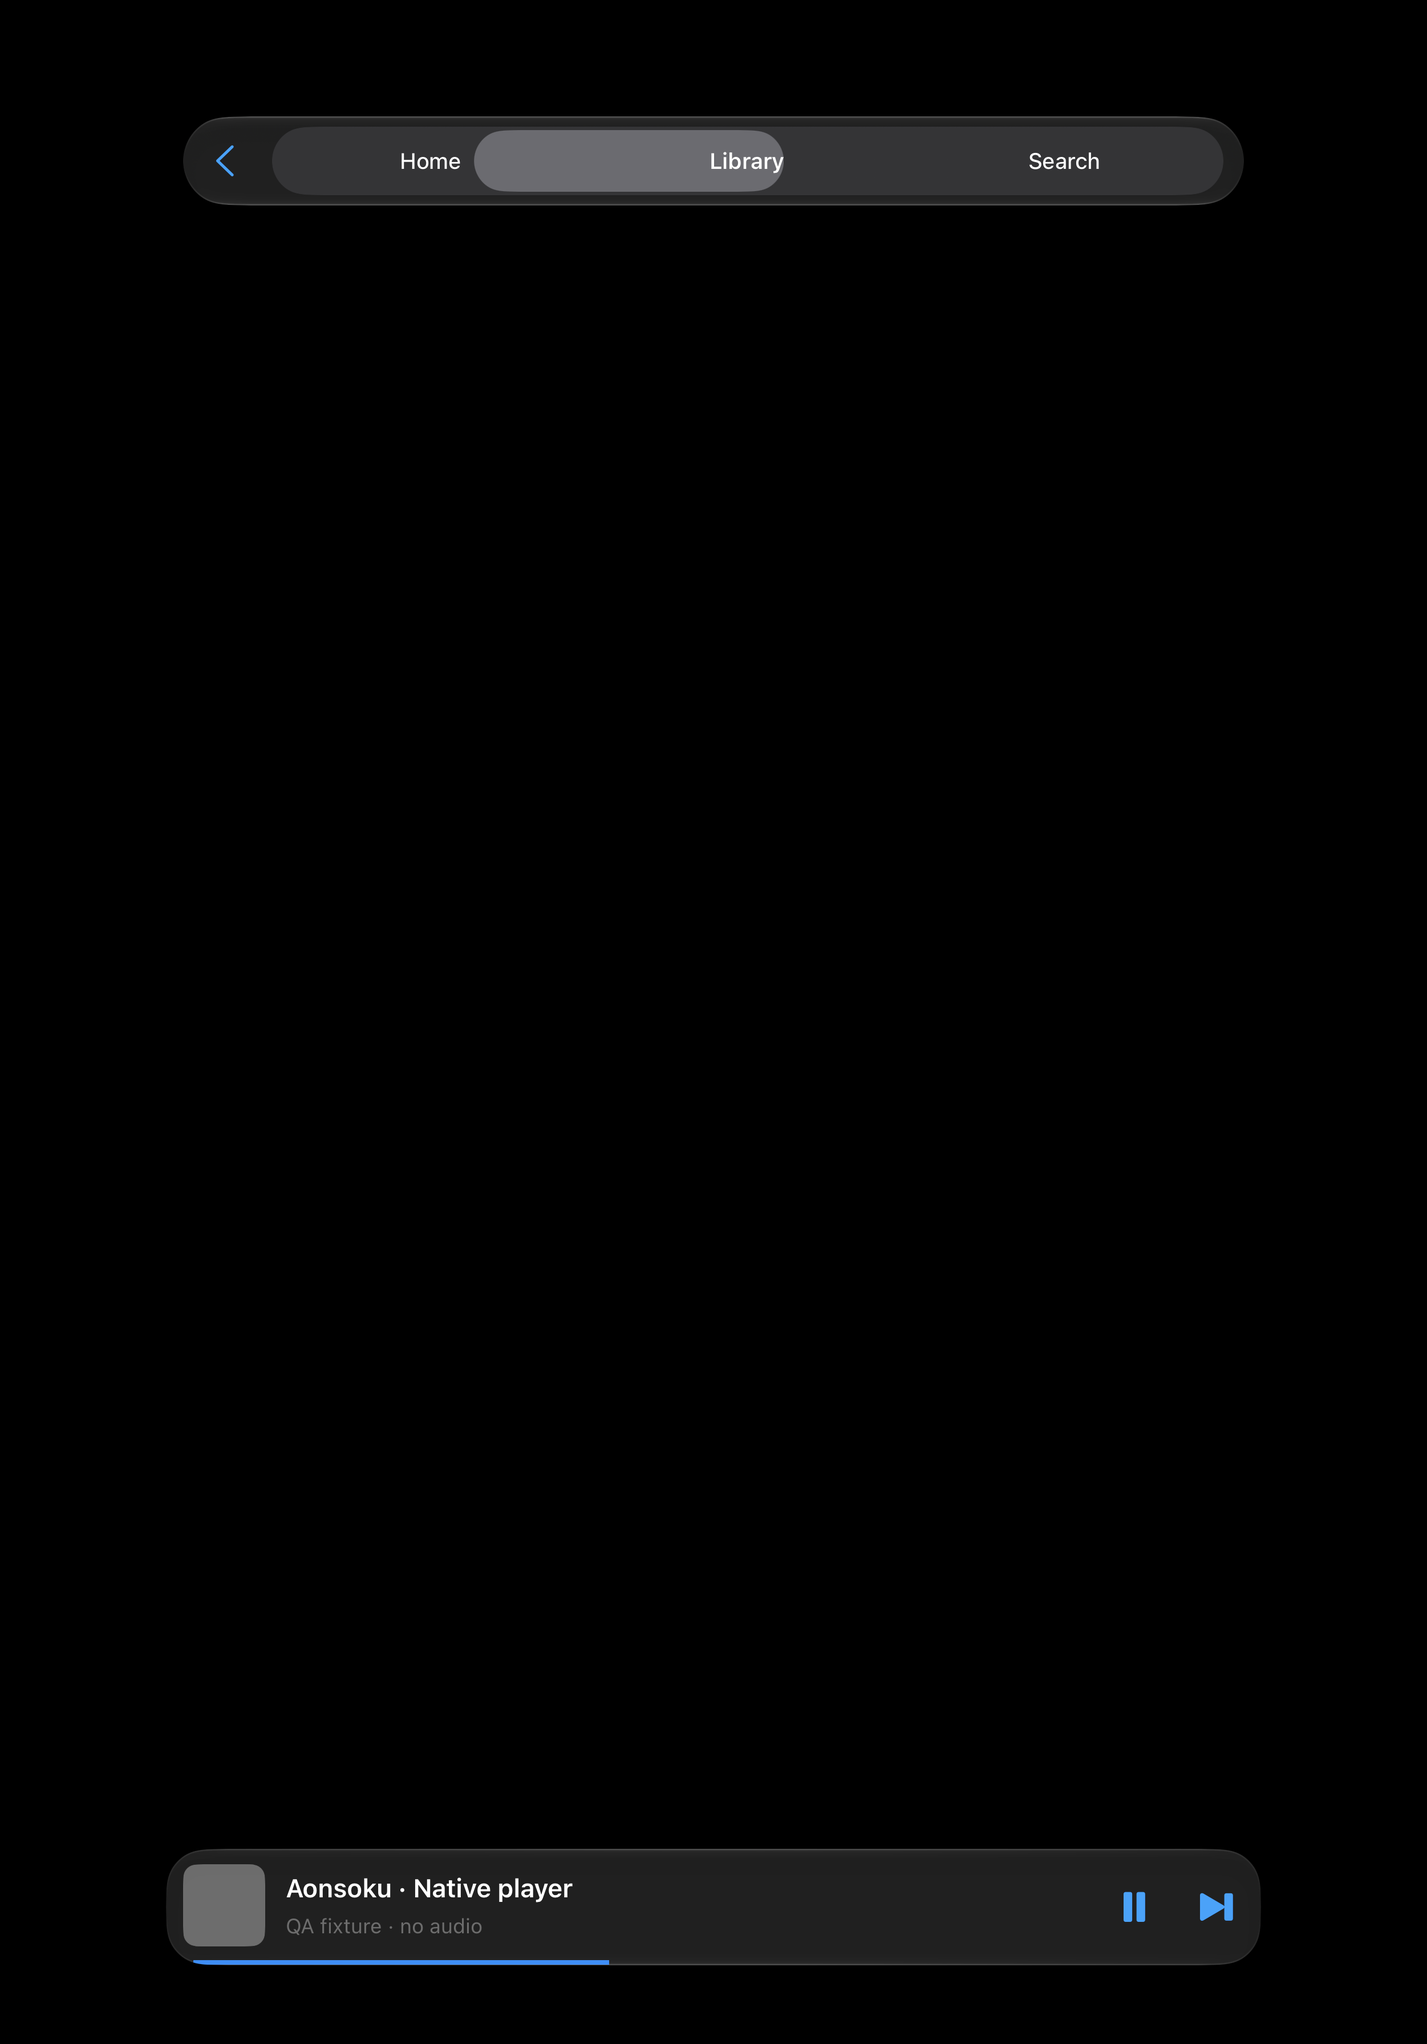
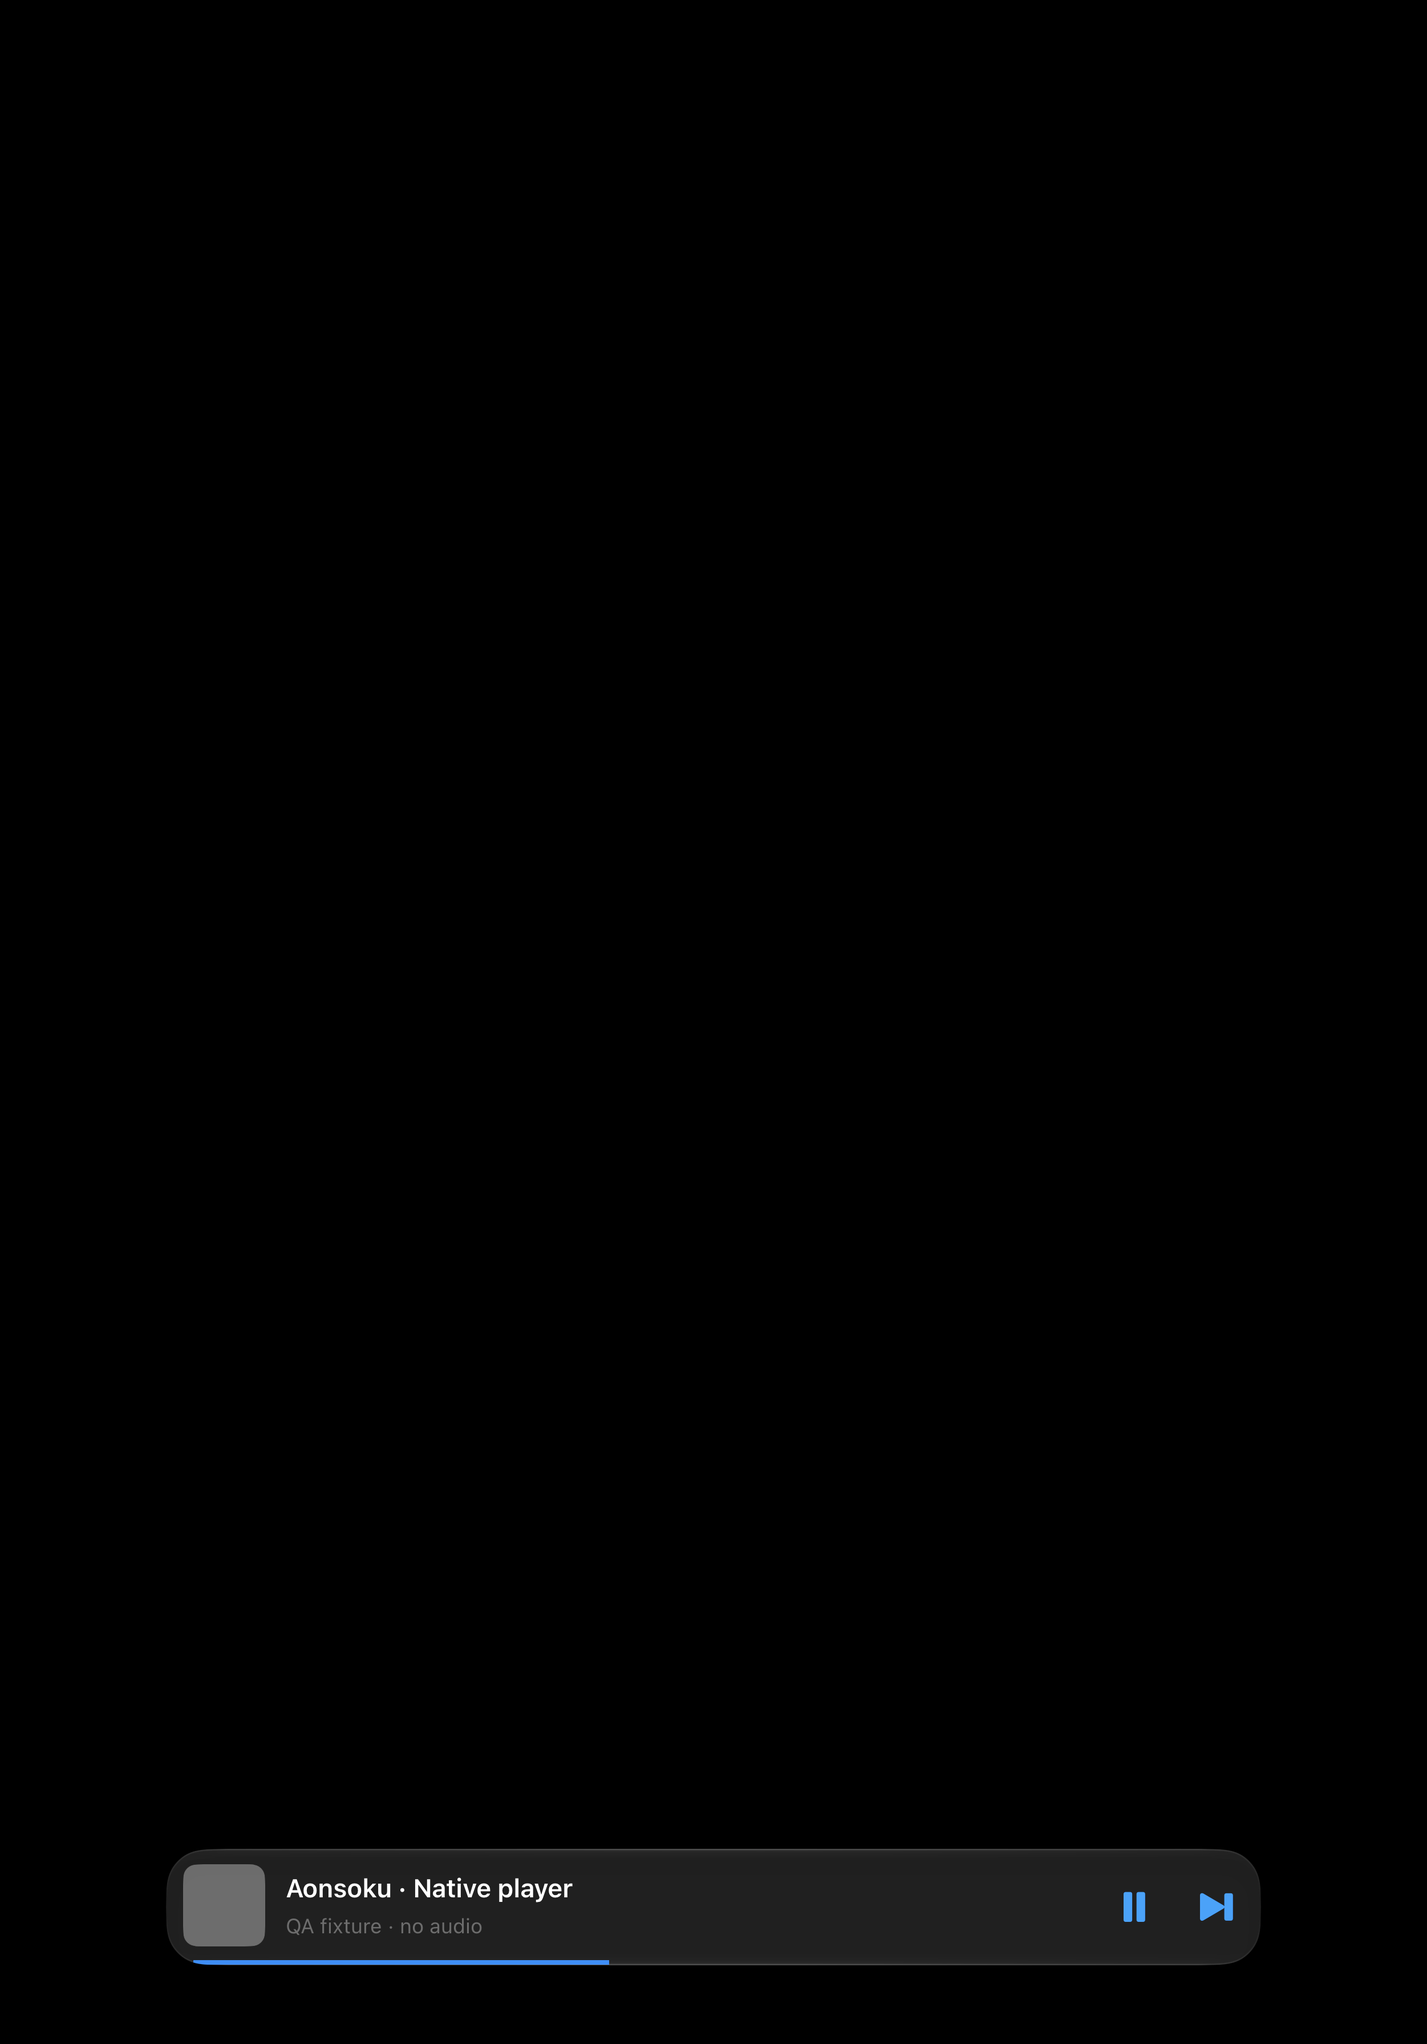
fix(ios): restore wide-window navigation with native mini player

Changed region(s): [[0.1247, 0.031, 0.8729, 0.124]]

diff --git a/ios/App/App/NativeBottomShellView.swift b/ios/App/App/NativeBottomShellView.swift
@@ -9,9 +9,6 @@ final class NativeBottomShellView: UIView, UITabBarDelegate {
     var obscured = false { didSet { setNeedsLayout() } }
     var keyboardVisible = false { didSet { setNeedsLayout() } }
     private let tabBar = UITabBar()
-    private let topMaterial = UIVisualEffectView()
-    private let topTabs = UISegmentedControl(items: ["", "", ""])
-    private let backButton = UIButton(type: .system)
     private let playerMaterial = UIVisualEffectView()
     private let infoButton = UIButton(type: .system)
     private let artwork = UIImageView()
@@ -41,19 +38,13 @@ final class NativeBottomShellView: UIView, UITabBarDelegate {
         let safe = safeAreaInsets
         let rowHeight: CGFloat = traitCollection.preferredContentSizeCategory.isAccessibilityCategory ? 88 : 68
         let tabHeight = max(72, tabBar.sizeThatFits(CGSize(width: bounds.width, height: 100)).height)
-        let topInset: CGFloat = compact ? 0 : safe.top + 64
+        let topInset: CGFloat = 0
         let bottomInset = compact
             ? safe.bottom + tabHeight + (hasContent ? rowHeight + 16 : 0)
             : (hasContent ? safe.bottom + rowHeight + 24 : 0)
-        topMaterial.isHidden = !enabled || obscured || compact
         tabBar.isHidden = !enabled || obscured || keyboardVisible || !compact
         playerMaterial.isHidden = !enabled || obscured || keyboardVisible || !hasContent
         let availableWidth = bounds.width - safe.left - safe.right
-        let topWidth = min(availableWidth - 24, 620)
-        topMaterial.frame = CGRect(x: safe.left + (availableWidth - topWidth) / 2,
-                                   y: safe.top + 6, width: topWidth, height: 52)
-        backButton.frame = CGRect(x: 4, y: 4, width: 44, height: 44)
-        topTabs.frame = CGRect(x: 52, y: 6, width: topWidth - 64, height: 40)
         tabBar.frame = CGRect(x: safe.left, y: bounds.height - safe.bottom - tabHeight,
                               width: availableWidth, height: tabHeight)
         let playerWidth = min(availableWidth - 24, compact ? availableWidth - 24 : 640)
@@ -95,7 +86,6 @@ final class NativeBottomShellView: UIView, UITabBarDelegate {
         nextButton.accessibilityLabel = state["nextLabel"] as? String
         infoButton.accessibilityLabel = state["openPlayerLabel"] as? String
         infoButton.accessibilityValue = state["trackLabel"] as? String
-        backButton.accessibilityLabel = state["backLabel"] as? String
         title.text = state["title"] as? String
         subtitle.text = state["artist"] as? String
         progress.progress = Float(state["progressFraction"] as? Double ?? 0)
@@ -104,12 +94,10 @@ final class NativeBottomShellView: UIView, UITabBarDelegate {
             lastLabels = labels
             let symbols = ["house", "square.grid.2x2", "magnifyingglass"]
             tabBar.items = labels.enumerated().map { index, label in
-                topTabs.setTitle(label, forSegmentAt: index)
                 return UITabBarItem(title: label, image: UIImage(systemName: symbols[index]), tag: index)
             }
         }
         let selection = min(2, max(0, state["activeIndex"] as? Int ?? 0))
-        topTabs.selectedSegmentIndex = selection
         tabBar.selectedItem = tabBar.items?[selection]
         setNeedsLayout()
     }
@@ -134,11 +122,9 @@ final class NativeBottomShellView: UIView, UITabBarDelegate {
 
     private func build() {
         backgroundColor = .clear
-        for material in [topMaterial, playerMaterial] { material.clipsToBounds = true }
-        topMaterial.layer.cornerRadius = 26
+        playerMaterial.clipsToBounds = true
         playerMaterial.layer.cornerRadius = 24
-        addSubview(topMaterial); addSubview(tabBar); addSubview(playerMaterial)
-        topMaterial.contentView.addSubview(backButton); topMaterial.contentView.addSubview(topTabs)
+        addSubview(tabBar); addSubview(playerMaterial)
         for control in [infoButton, playButton, nextButton, progress] { playerMaterial.contentView.addSubview(control) }
         for child in [artwork, title, subtitle] {
             infoButton.addSubview(child)
@@ -162,14 +148,11 @@ final class NativeBottomShellView: UIView, UITabBarDelegate {
         title.lineBreakMode = .byTruncatingTail; subtitle.lineBreakMode = .byTruncatingTail
         progress.isAccessibilityElement = false
         progress.tintColor = .systemBlue
-        topTabs.addTarget(self, action: #selector(selectTopTab), for: .valueChanged)
         tabBar.delegate = self; tabBar.tintColor = .systemBlue
-        backButton.setImage(UIImage(systemName: "chevron.backward"), for: .normal)
         nextButton.setImage(UIImage(systemName: "forward.end.fill"), for: .normal)
-        for button in [backButton, playButton, nextButton, infoButton] {
+        for button in [playButton, nextButton, infoButton] {
             button.addInteraction(UIPointerInteraction(delegate: nil))
         }
-        backButton.addTarget(self, action: #selector(goBack), for: .touchUpInside)
         infoButton.addTarget(self, action: #selector(openPlayer), for: .touchUpInside)
         playButton.addTarget(self, action: #selector(togglePlayback), for: .touchUpInside)
         nextButton.addTarget(self, action: #selector(nextTrack), for: .touchUpInside)
@@ -181,7 +164,7 @@ final class NativeBottomShellView: UIView, UITabBarDelegate {
     }
 
     @objc private func updateMaterial() {
-        for view in [topMaterial, playerMaterial] {
+        for view in [playerMaterial] {
             if UIAccessibility.isReduceTransparencyEnabled {
                 view.effect = nil; view.backgroundColor = .secondarySystemBackground
             } else {
@@ -195,8 +178,6 @@ final class NativeBottomShellView: UIView, UITabBarDelegate {
         }
     }
 
-    @objc private func selectTopTab() { onEvent?(["type": "tab", "index": topTabs.selectedSegmentIndex]) }
-    @objc private func goBack() { onEvent?(["type": "back"]) }
     @objc private func openPlayer() { onEvent?(["type": "openPlayer"]) }
     @objc private func togglePlayback() { onEvent?(["type": "control", "action": "togglePlayPause"]) }
     @objc private func nextTrack() { onEvent?(["type": "control", "action": "playNextSong"]) }

diff --git a/src/app/layout/native-ios-shell.cy.tsx b/src/app/layout/native-ios-shell.cy.tsx
@@ -31,6 +31,30 @@ describe("iOS native shell integration", () => {
     cy.get('[data-testid="path"]').should("have.text", "/library/albums/album-1");
   });
 
+  it("restores wide-window navigation and content offsets while retaining the native player", () => {
+    cy.viewport(1366, 900);
+    cy.mount(<>
+      <Fixture />
+      <header data-native-web-header className="hidden md:flex fixed top-0 h-header">
+        <div><button type="button">Toggle sidebar</button></div>
+      </header>
+      <aside data-native-web-sidebar className="hidden xl:flex fixed top-header bottom-0 pb-player w-sidebar" />
+      <main data-native-main className="md:pl-mini-sidebar xl:pl-sidebar pt-header" />
+      <footer data-native-web-player />
+    </>);
+    cy.window().then((win) => win.dispatchEvent(new CustomEvent("aonsoku-native-shell", { detail: { type: "layout", top: 0, bottom: 100, compact: false } })));
+    cy.get('[data-native-web-header]').should("be.visible");
+    cy.contains("button", "Toggle sidebar").should("be.visible");
+    cy.get('[data-native-web-sidebar]').should("be.visible").and("have.css", "bottom", "100px");
+    cy.get('[data-native-main]').should("have.css", "padding-left", "280px");
+    cy.get('[data-native-web-player]').should("have.css", "display", "none");
+    cy.viewport(600, 900);
+    cy.window().then((win) => win.dispatchEvent(new CustomEvent("aonsoku-native-shell", { detail: { type: "layout", top: 0, bottom: 180, compact: true } })));
+    cy.get('[data-native-web-header]').should("have.css", "display", "none");
+    cy.get('[data-native-web-sidebar]').should("have.css", "display", "none");
+    cy.get('[data-native-main]').should("have.css", "padding-left", "0px");
+  });
+
   it("gets out of the way of dialogs and fullscreen, then restores the controls", () => {
     cy.mount(<StrictMode><Fixture /></StrictMode>);
     cy.document().then((doc) => doc.body.setAttribute("data-scroll-locked", "1"));

diff --git a/src/index.css b/src/index.css
@@ -88,9 +88,6 @@
   :root.native-ios-shell {
     --player-height: 0px;
     --bottom-nav-height: var(--native-shell-bottom, 0px);
-    --sidebar-base-width: 0px;
-    --mini-sidebar-base-width: 0px;
-    --header-height: calc(var(--native-shell-top, 0px) + 44px);
   }
 
   :root.native-ios-shell.native-ios-compact {
@@ -100,22 +97,18 @@
 
   .native-ios-shell [data-native-web-bottom-nav],
   .native-ios-shell [data-native-web-player],
-  .native-ios-shell [data-native-web-sidebar],
+  .native-ios-compact [data-native-web-sidebar],
   .native-ios-compact [data-native-web-header] {
     display: none;
   }
 
-  .native-ios-shell [data-native-web-header] {
-    top: var(--native-shell-top, 0px);
-    height: 44px;
-    padding-top: 0px;
+  /* Wide iPad windows keep the established header/sidebar geometry. */
+  .native-ios-shell [data-native-web-sidebar] {
+    bottom: var(--native-shell-bottom, 0px);
+    padding-bottom: 0px;
   }
 
-  .native-ios-shell [data-native-web-header] > div:first-child {
-    visibility: hidden;
-  }
-
-  .native-ios-shell [data-native-main] {
+  .native-ios-compact [data-native-main] {
     padding-left: var(--safe-area-left);
     padding-right: var(--safe-area-right);
     padding-top: var(--header-height);

diff --git a/scripts/ios/native-shell-qa.swift b/scripts/ios/native-shell-qa.swift
@@ -58,7 +58,11 @@ final class ShellQAController: UIViewController {
             shell.layoutIfNeeded()
             let compact = idiom == .phone || width < 768
             precondition(measurements.2 == compact, "Incorrect adaptive layout: \(name)")
-            precondition(compact ? measurements.0 == 0 : measurements.0 >= 64)
+            precondition(measurements.0 == 0, "Native navigation must not reserve the top header")
+            if !compact {
+                precondition(shell.hitTest(CGPoint(x: width / 2, y: 90), with: nil) == nil,
+                    "Wide windows must leave the Web navigation interactive")
+            }
             precondition(measurements.1 >= 68, "Missing player reservation")
             let renderer = UIGraphicsImageRenderer(size: shell.bounds.size)
             let image = renderer.image { _ in

diff --git a/doc/ios-native/bottom.md b/doc/ios-native/bottom.md
@@ -85,7 +85,7 @@
 
 实际工程：React + Capacitor 8，iOS/iPadOS 最低版本 15，UIKit 外壳和单个 WKWebView；原生音频服务、队列、系统媒体控制与离线数据层继续沿用现有实现。
 
-- `NativeBottomShellView.swift` 提供 UIKit 原生导航与迷你播放器。iPhone 横竖屏和小于 768pt 的 iPad 窗口使用原生 `UITabBar`；常规 iPad 窗口使用顶部 `UISegmentedControl` 导航，播放器在底部居中且最大宽度 640pt，避免放大手机底栏。iPhone 工程同时开放横屏方向。
+- `NativeBottomShellView.swift` 提供 UIKit 原生导航与迷你播放器。iPhone 横竖屏和小于 768pt 的 iPad 窗口使用原生 `UITabBar`；常规 iPad 窗口按 2026-10-15 的用户调整恢复原有 Web 顶栏/侧栏导航，播放器在底部居中且最大宽度 640pt。iPhone 工程同时开放横屏方向。
 - iOS 26+ 使用公开 `UIGlassEffect`；旧系统回退系统材质。减少透明度时使用不透明系统背景；减少动态效果时禁用交互式玻璃动效。控件提供 VoiceOver 描述、动态字体、指针交互和 Command+1/2/3 导航快捷键。
 - 原生播放器复用共享 Player 已计算好的本地歌曲、电台、遥控投影，展示歌曲封面、标题、艺人、播放/暂停、下一首、进度。歌曲可打开已有完整播放器；电台保留播放控制，沿用原有未提供电台完整播放器的边界。原生动作回到已有 actions，没有新的音频实例、会话、队列或网络请求。
 - 路由由 React Router 保持唯一所有权，原生选择同步页面跳转与返回。Tab 保存各自最后的位置并复用 KeepAlive 页面，完整播放器入口使用现有历史机制。改变窗口形态只重新布局原生控件，既有页面和音频仍保持挂载。
@@ -111,3 +111,12 @@
 此前独立 UIKit 测试和 Cypress 模拟桥测试没有覆盖 Capacitor 真实创建顺序，这部分验收存在缺口。新增 `test-native-shell-bridge.mjs`：使用实际 Debug Simulator App 和生产 AonsokuViewController，确认最终 WK handler 存在、真实 JS 状态消息启用原生控件、布局尺寸回传；已挂载 React 页面时同时验证 Web 导航和播放器确实隐藏。测试只在显式 Debug QA 环境变量开启时注入展示状态，不改变认证、队列或播放动作，Release 没有该测试路径。
 
 验证结果写入 `exp/native-shell-bridge-qa/results.json`；真实外壳截图留在 `/tmp/aonsoku-native-shell-bridge-qa/capacitor-shell.png`，不将 Simulator 已有账户的页面内容提交仓库。修复涉及原生二进制，需重新构建并安装 iOS App。此次验证使用 Simulator，没有更新真机。
+
+
+## 宽窗口恢复原导航（2026-10-15）
+
+用户确认原生栏生效后，要求大屏/横屏模式恢复之前的菜单设计，保留新的收起播放器。现按实际窗口宽度处理：iPad 窗口达到 768pt 时移除原生顶部导航，显示原有 Web 顶栏（搜索、账户、侧栏切换）及响应式侧栏，恢复对应内容左侧偏移和顶栏安全区；底部继续显示居中、最多 640pt 的原生迷你播放器。iPad 窗口小于 768pt 时仍使用原生底部 Tab；iPhone 仍保持原生底部 Tab。
+
+侧栏下沿跟随原生播放器预留高度，避免最后一项被播放器覆盖。宽窄窗口切换仅改变控件布局和 CSS，不重建页面、队列或播放实例。UIKit 夹具补验宽窗口顶部不保留原生导航高度且不截获 Web 顶栏触摸；截图和测量结果随本次更新覆盖 `exp/native-shell-qa/`。
+
+本次验证：UIKit 宽/窄窗口、顶部命中、播放器控制及空状态测试通过；Cypress 3 项桥接/布局测试通过，其中宽窗口确认顶栏与侧栏可见、保留 280px 内容偏移及播放器留白，再切到窄窗口确认导航隐藏和内容偏移释放。移动端构建、lint、iOS Release 编译通过；未向真机安装。

diff --git a/AGENTS.md b/AGENTS.md
@@ -266,8 +266,8 @@ location from inside a cached subtree unless the freeze above is extended.
 
 `ios/App/App/NativeBottomShellView.swift` is a UIKit overlay on the existing
 single Capacitor WKWebView. iPhone (including landscape) and iPad windows below
-768pt use a native bottom UITabBar; regular iPad windows use top segmented
-navigation and a centered, width-limited native player. iOS 26+ uses public
+768pt use a native bottom UITabBar; regular iPad windows restore the established Web header/sidebar navigation
+with a centered, width-limited native player. iOS 26+ uses public
 UIGlassEffect; older systems use material blur. Reduce Transparency and Reduce
 Motion are respected. Empty playback releases the player space; keyboard,
 fullscreen and modal states hide the obstructing controls.
@@ -284,8 +284,11 @@ small app-local result; normal launches and Release contain no fixture behavior.
 Artwork is a bounded 128px copy of the existing loaded image, sent separately;
 stale track IDs are ignored. Native controls dispatch existing React Router and
 player actions, preserving fullscreen history and tab locations. Measured native
-insets feed root CSS variables; the old Web chrome hides only with this host
-capability, so Web, Android and desktop keep their existing UI. Window changes
+insets feed root CSS variables; Web playback chrome hides with this host
+capability, while header/sidebar navigation hides only in compact windows.
+Regular iPad pages retain the established sidebar offsets and header safe area;
+the sidebar ends above the native player reservation. Web, Android and desktop
+keep their existing UI. Window changes
 never replace the WebView or audio service. Native shell state is scene-local;
 the app still advertises a single scene. See `doc/ios-native/bottom.md`.
 
